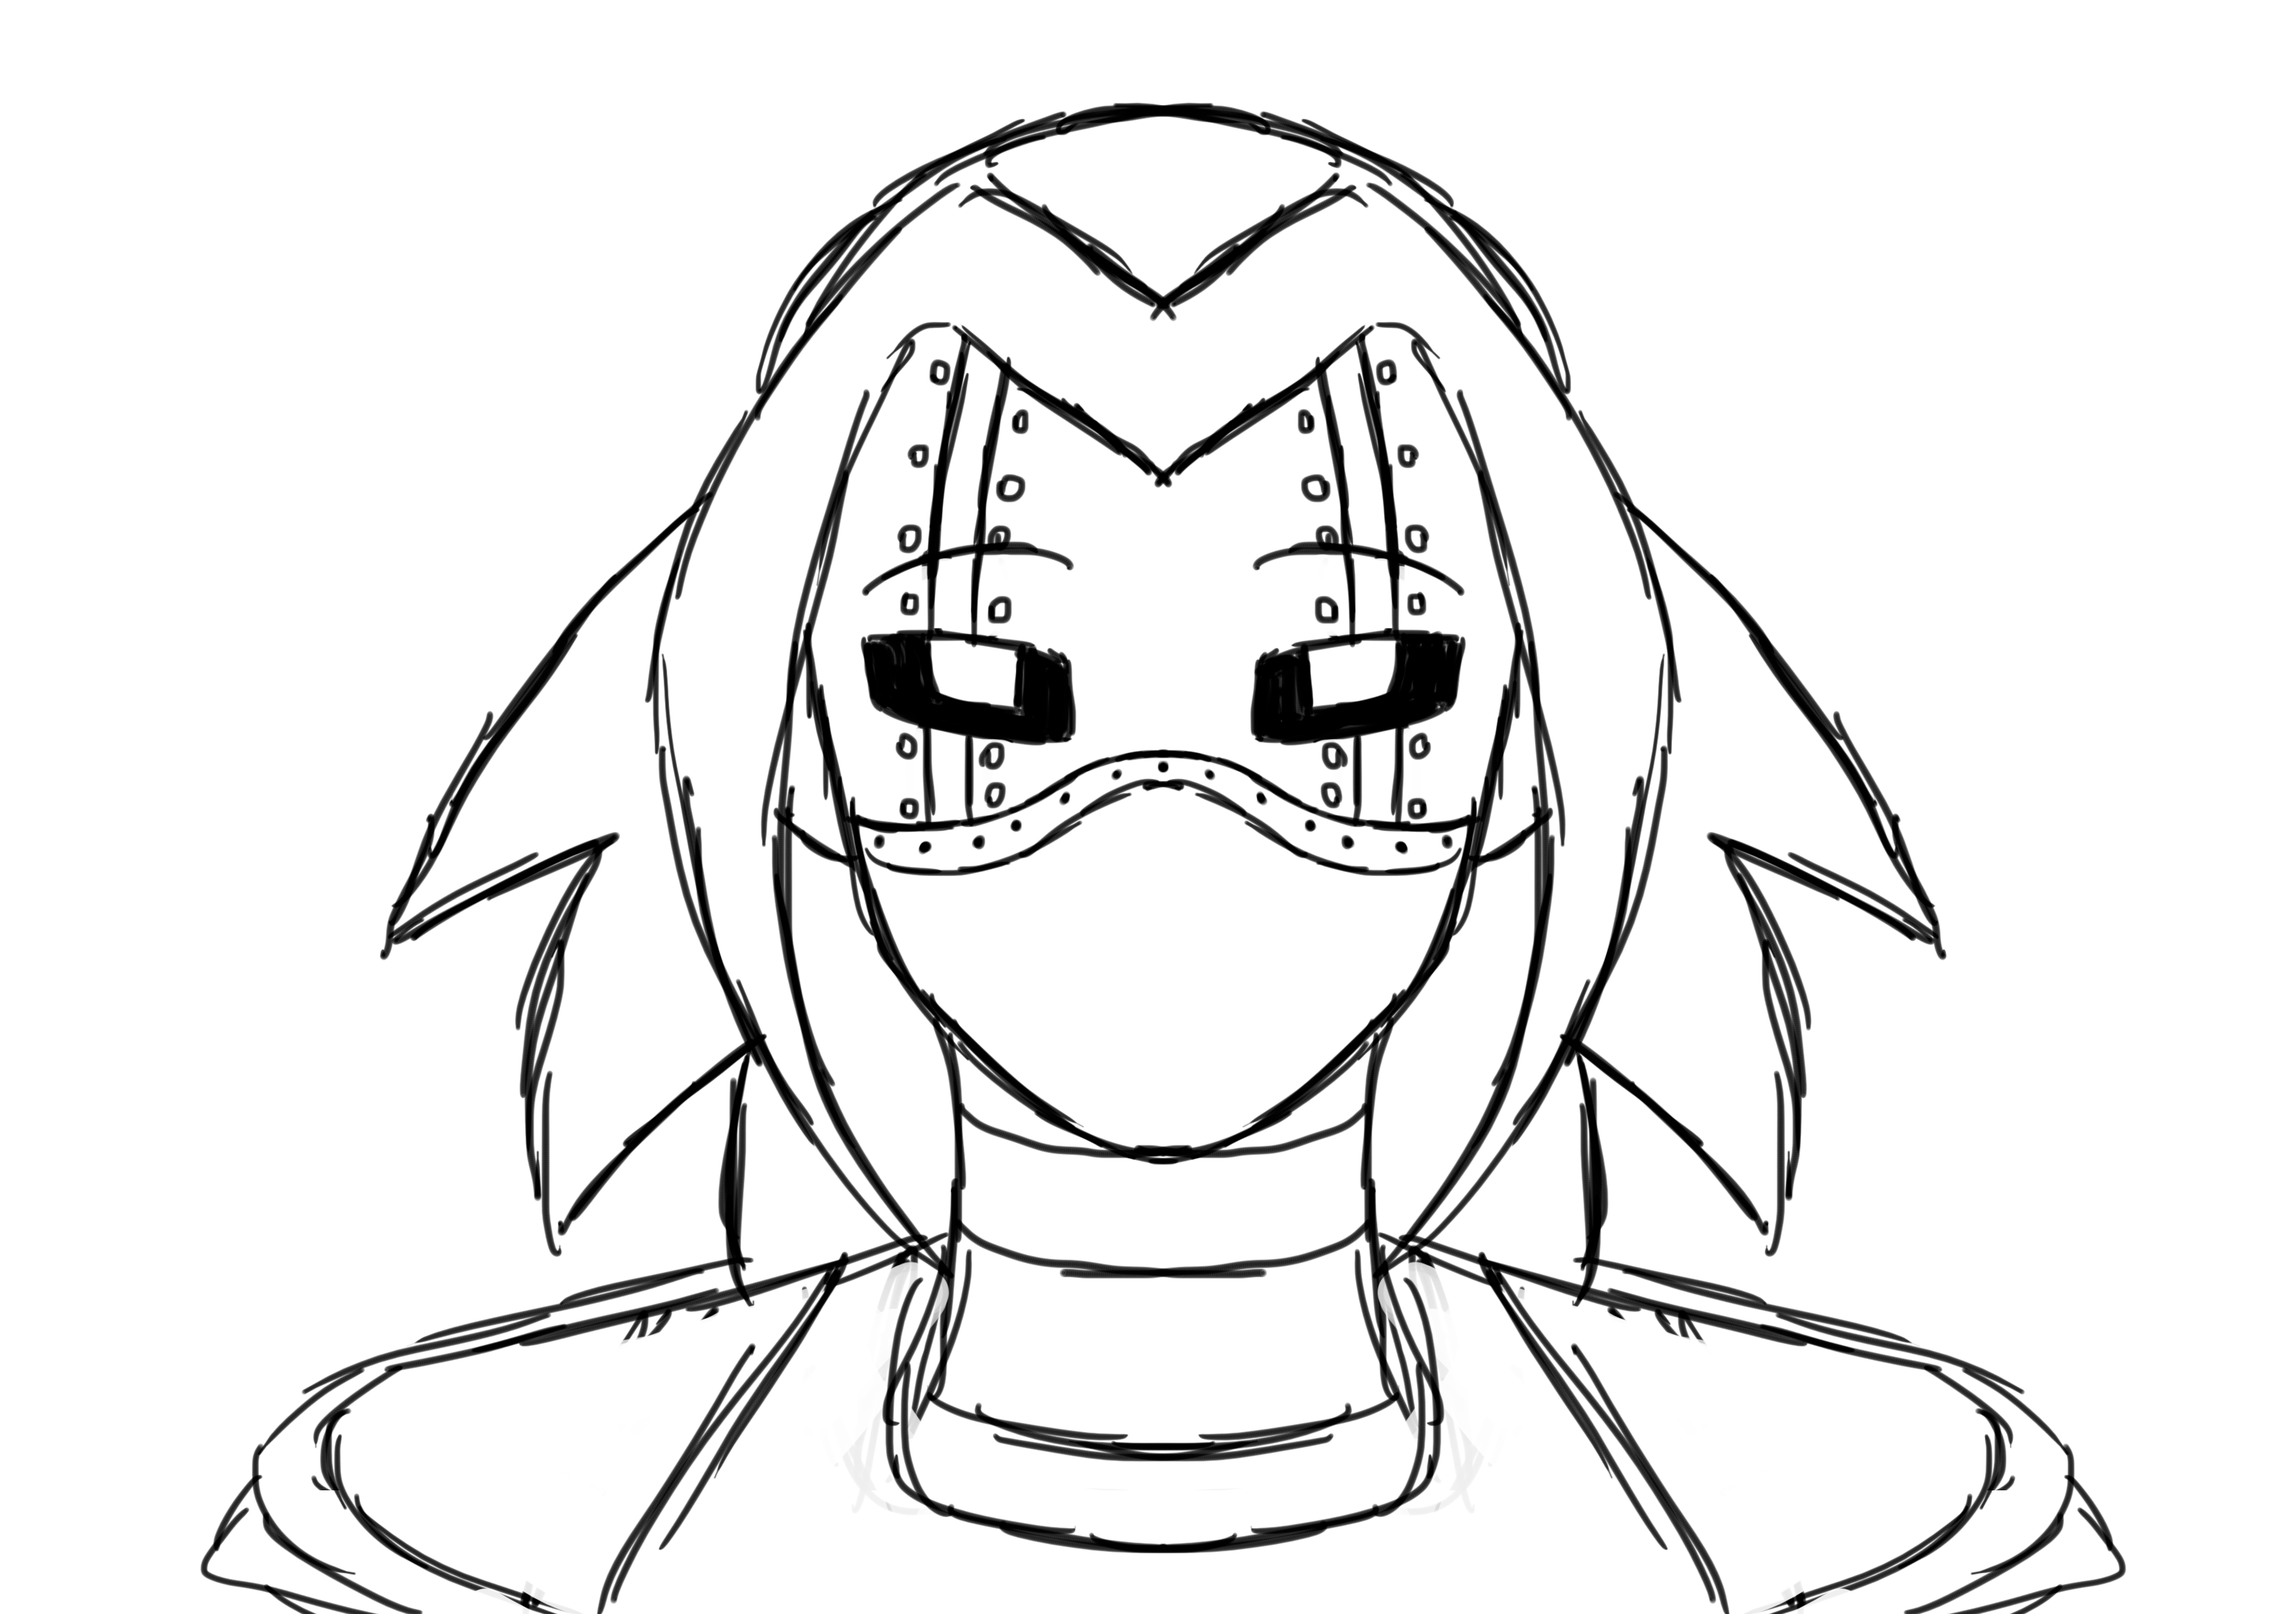
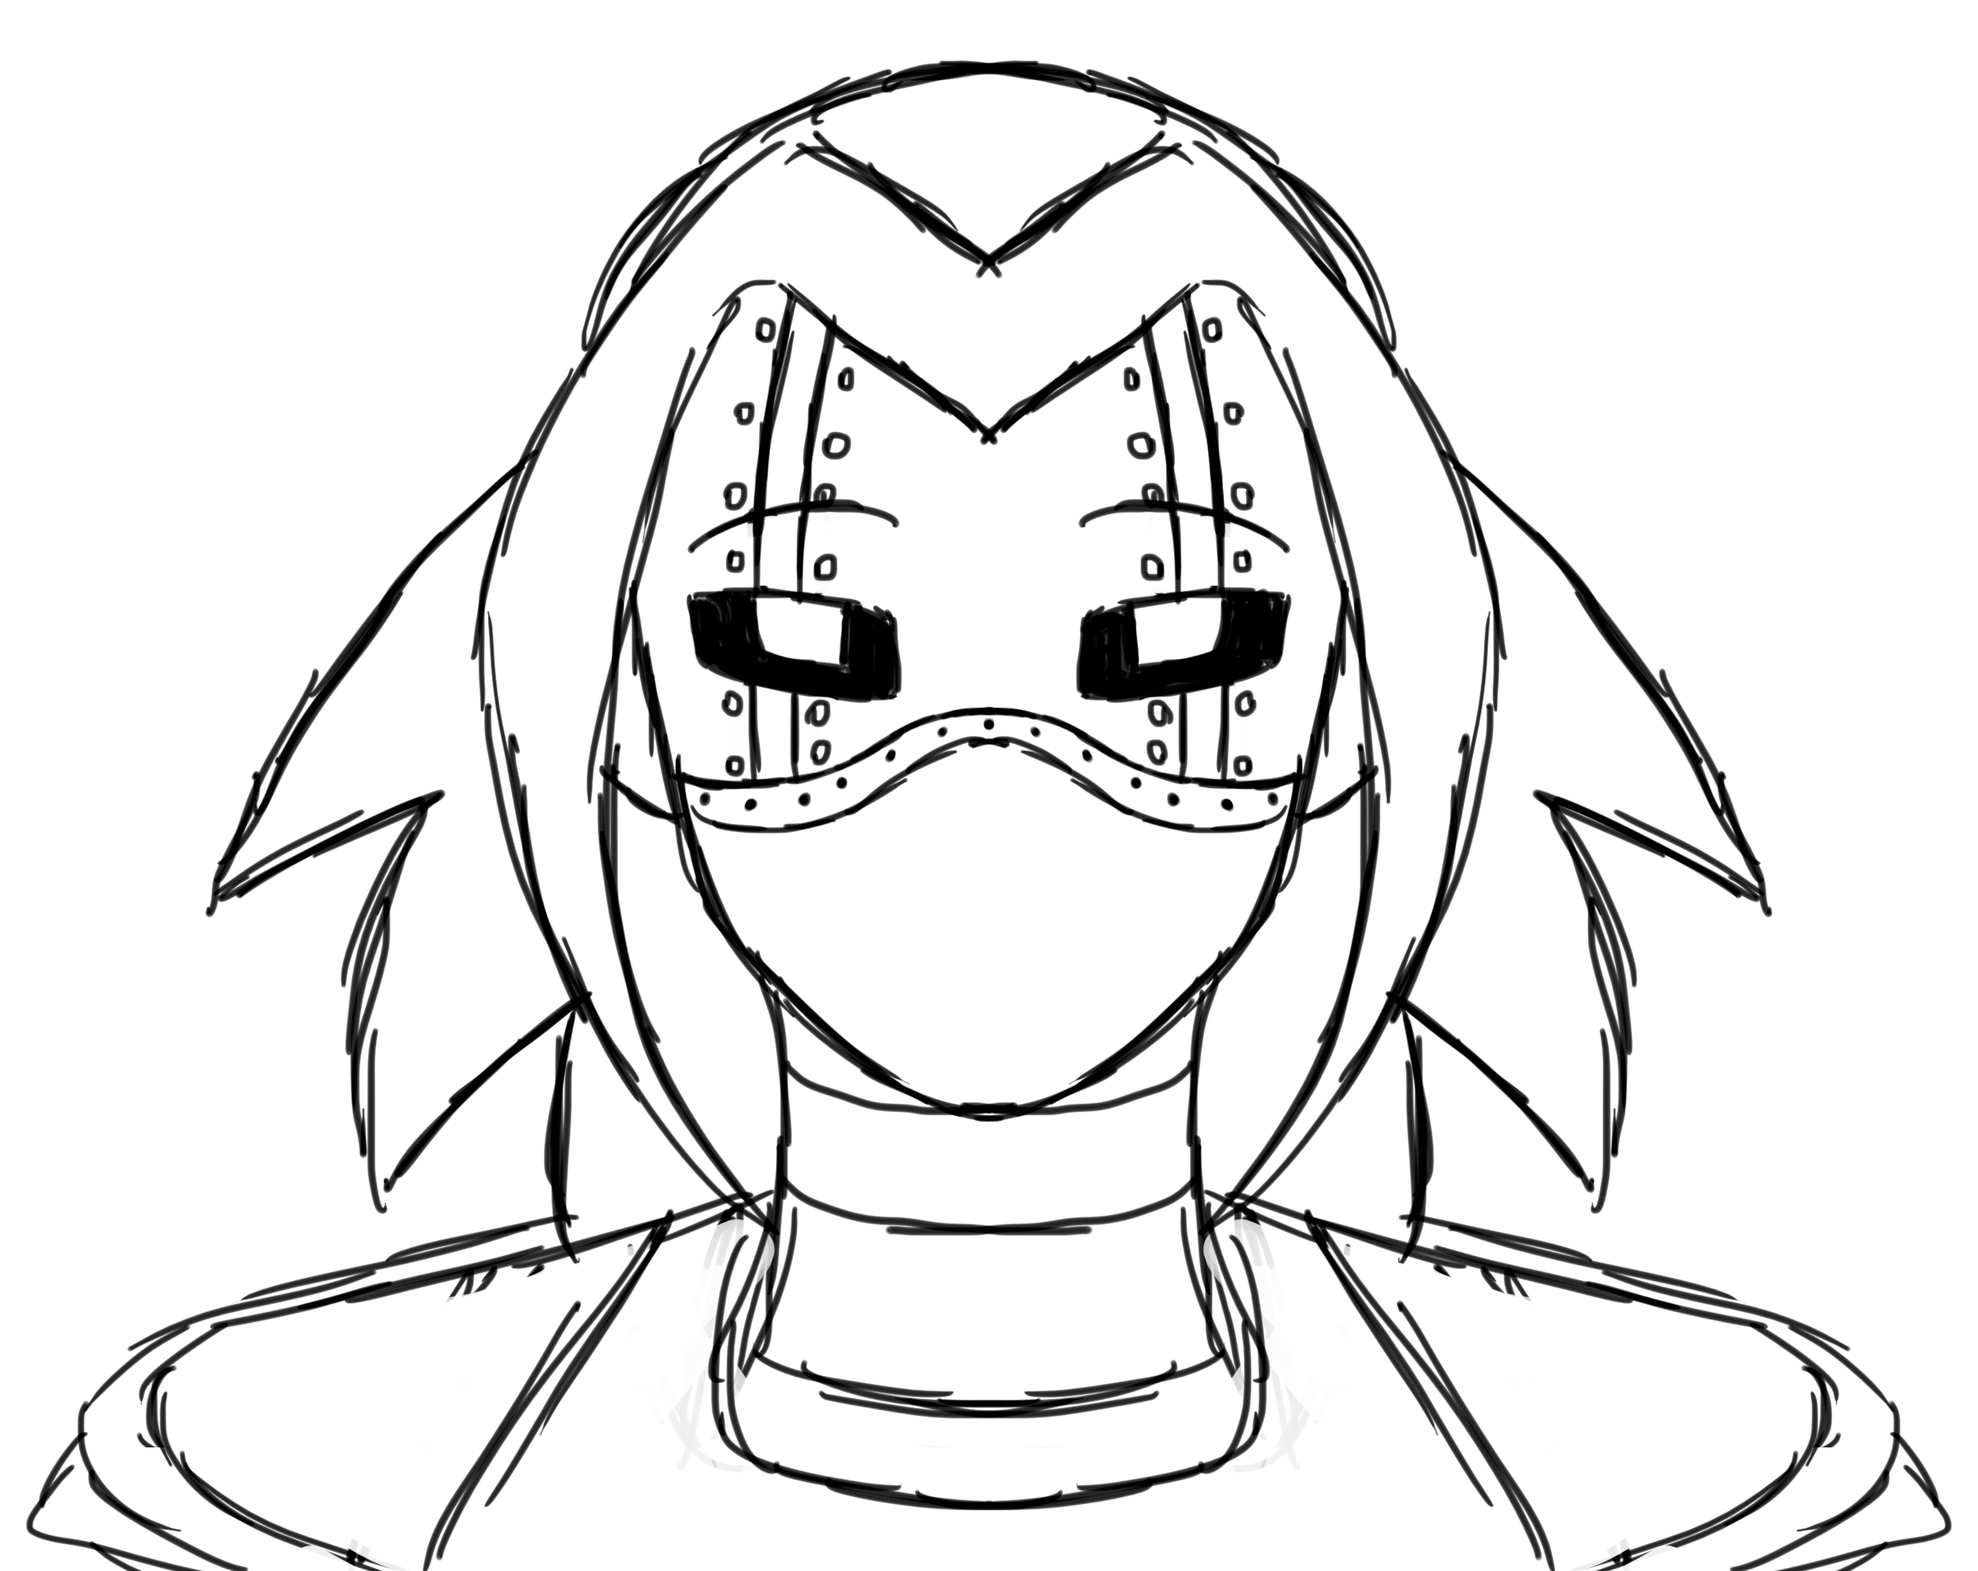
simplificacion de menus y añadi a shadowface
tuve algunas quejas de como funcionaba el menu de movimientos por parte de mis compañeros asi que lo hice mas facil de editar cosa que ellos puedan hacer lo que quieran con el menu mientras los movimientos esten dentro de la base de datos y coloquen 0 para indicar que esta vacio, tambien añadi los fondos hechos por benjamin y a black junto a shadowface, falta hacer su forma escondida pero creo que eso puede esperar

Changed region(s): [[0.0, 0.0311, 0.9898, 1.0]]

diff --git a/Batalla.py b/Batalla.py
@@ -41,11 +41,15 @@ humano1 = pygame.image.load("graficos/Humano1.png")
 
 humano2 = pygame.image.load("graficos/Humano2.png")
 
+humano3 = pygame.image.load("graficos/Humano3.png")
+
 Bot1 = pygame.image.load("graficos/Bot1.png")
 
 Bot2 = pygame.image.load("graficos/Bot2.png")
 
 Bot3 = pygame.image.load("graficos/Bot3.png")
+
+Bot4 = pygame.image.load("graficos/Bot4.png")
 
 Bella = pygame.image.load("graficos/Bella.png")
 
@@ -53,13 +57,19 @@ Angel = pygame.image.load("graficos/Angel.png")
 
 Glitter = pygame.image.load("graficos/Glitter.png")
 
+Black = pygame.image.load("graficos/Black.png")
+
 Miguel = pygame.image.load("graficos/Miguel.png")
 
 Carlos = pygame.image.load("graficos/Carlos.png")
 
+Shadowfave = pygame.image.load("graficos/Shadowface.png")
+
 MontañitasFondo = pygame.image.load("graficos/montañitas.png")
 
-CiudadFondo= pygame.image.load("graficos/ciudad fondo.png")
+PasilloFondo = pygame.image.load("graficos/pasilloFondo.png")
+
+SinLuz = pygame.image.load("graficos/FueraDeServicioFondo.png")
 
 
 
@@ -264,7 +274,7 @@ class boton():
 
 
 
-
+#definir lo que seleccionaremos como iconos
 
 humano_surface = pygame.transform.scale(humano1,(110,110))
 
@@ -275,20 +285,24 @@ bot2_surface = pygame.transform.scale(Bot2,(110,110))
 
 bot3_surface = pygame.transform.scale(Bot3,(110,110))
 
+bot4_surface = pygame.transform.scale(Bot4,(110,110))
 
-fondo1 = pygame.transform.scale(MontañitasFondo,(1280,720))
-
-fondo2 = pygame.transform.scale(CiudadFondo,(1280,720))
-
+bot5_surface = pygame.transform.scale(humano3,(110,110))
 
 
 
-
-pantalla.blit(fondo2,(0,-300))
-
-
+#definir fondo
+fondo1 = pygame.transform.scale(SinLuz,(1280,720))
 
 
+
+#aplicar fondo
+
+pantalla.blit(fondo1,(0,-100))
+
+
+
+#activar los iconos de los personajes que usaremos mas adelante
 
 iconoHumano1 = boton(humano_surface, 85, 625,FOCR,"")
 
@@ -302,14 +316,14 @@ iconoBot2 = boton(bot2_surface, 495, 625,FOCR,"")
 iconoBot3 = boton(bot3_surface, 700, 625,FOCR,"")
 
 
-iconoBot4 = boton(bot1_surface, 905, 625,FOCR,"")
+iconoBot4 = boton(bot4_surface, 905, 625,FOCR,"")
 
 
-iconoBot5 = boton(bot1_surface, 1110, 625,FOCR,"")
+iconoBot5 = boton(bot5_surface, 1110, 625,FOCR,"")
 
 
 
-
+#definir opciones para el menu de humano
 
 accederMenuMovimientosPersonaje1 = boton(None, 225, 450,FOCR,"ATACAR")
 
@@ -364,58 +378,6 @@ def obtenerMovimiento(id):
 
     
 
-
-#definir objetos del inventario
-
-
-    
-
-
-Objeto1 = boton(None, 125, 425, FOCRM, obtenerObjeto(1))
-
-
-Objeto2 = boton(None, 425, 425, FOCRM, obtenerObjeto(3))
-
-
-Objeto3 = boton(None, 725, 425, FOCRM, obtenerObjeto(4))
-
-
-Objeto4 = boton(None, 1025, 425, FOCRM, obtenerObjeto(6))
-
-
-Objeto5 = boton(None, 450, 500, FOCRM, obtenerObjeto(8))
-
-
-Objeto6 = boton(None, 900, 500, FOCRM, obtenerObjeto(9))
-
-
-
-
-
-#definir movimientos
-
-
-
-
-
-movimiento1 = boton(None, 300, 420, FOCRM, obtenerMovimiento(2))
-
-
-movimiento2 = boton(None, 900, 420, FOCRM, obtenerMovimiento(3))
-
-
-movimiento3 = boton(None, 300, 480, FOCRM, obtenerMovimiento(5))
-
-
-movimiento4 = boton(None, 900, 480, FOCRM, obtenerMovimiento(6))
-
-
-movimiento5 = boton(None, 900, 480, FOCRM, obtenerMovimiento(7))
-
-
-
-
-
 #definir flechas de navegacion
 
 
@@ -436,7 +398,24 @@ def inventario():
 
     while True:
 
+        Objeto1 = boton(None, 125, 425, FOCRM, obtenerObjeto(1))
 
+
+        Objeto2 = boton(None, 425, 425, FOCRM, obtenerObjeto(3))
+
+
+        Objeto3 = boton(None, 725, 425, FOCRM, obtenerObjeto(4))    
+
+
+        Objeto4 = boton(None, 1025, 425, FOCRM, obtenerObjeto(6))
+
+
+        Objeto5 = boton(None, 450, 500, FOCRM, obtenerObjeto(8))    
+
+
+        Objeto6 = boton(None, 900, 500, FOCRM, obtenerObjeto(9))
+        
+        
         posicionMouse = pygame.mouse.get_pos()
 
 
@@ -574,7 +553,16 @@ def MenuMovimientos1():
 
     while True:
 
+        movimiento1 = boton(None, 300, 420, FOCRM, obtenerMovimiento(2))
 
+
+        movimiento2 = boton(None, 900, 420, FOCRM, obtenerMovimiento(3))
+
+
+        movimiento3 = boton(None, 300, 480, FOCRM, obtenerMovimiento(5))
+
+
+        movimiento4 = boton(None, 900, 480, FOCRM, obtenerMovimiento(6))
 
 
 
@@ -727,6 +715,19 @@ def MenuMovimientos2():
 
     while True:
 
+        movimiento1 = boton(None, 300, 420, FOCRM, obtenerMovimiento(0))
+
+
+        movimiento2 = boton(None, 900, 420, FOCRM, obtenerMovimiento(0))
+
+
+        movimiento3 = boton(None, 300, 480, FOCRM, obtenerMovimiento(0))
+
+
+        movimiento4 = boton(None, 900, 480, FOCRM, obtenerMovimiento(7))
+
+
+
         posicionMouse = pygame.mouse.get_pos()
 
 
@@ -735,12 +736,28 @@ def MenuMovimientos2():
 
         pygame.draw.rect(pantalla,(azul), (0,360,1280,360), width= 25,border_radius=25)
 
+        movimiento1.cambiarDeColor(posicionMouse)
 
-        movimiento5.cambiarDeColor(posicionMouse)
+
+        movimiento1.update()
 
 
-        movimiento5.update()
+        movimiento2.cambiarDeColor(posicionMouse)
 
+
+        movimiento2.update()
+
+
+        movimiento3.cambiarDeColor(posicionMouse)
+
+
+        movimiento3.update()
+
+
+        movimiento4.cambiarDeColor(posicionMouse)
+
+
+        movimiento4.update()
 
         FlechaI.cambiarDeColor(posicionMouse)
 
@@ -867,17 +884,27 @@ def MenuHumano():
 
         posicionMouse = pygame.mouse.get_pos()
 
-        botOponente = pygame.transform.scale(Angel,(500,450))
-
-        humanoOponente = pygame.transform.scale(Carlos,(150,300))
-
-        pantalla.blit(botOponente,(350,-25))
-
-        pantalla.blit(humanoOponente,(350,100))
 
         pygame.draw.rect(pantalla,(negro), (0,360,1280,360),border_top_left_radius=25,border_top_right_radius=25)
 
+
         pygame.draw.rect(pantalla,(azul), (0,360,1280,360), width= 25,border_radius=25)
+
+
+        #pygame.draw.rect(pantalla,(celestePastel), (400,200,300,300), width= 100,border_radius=100)
+
+
+        botOponente = pygame.transform.scale(Bella,(300,400))
+
+
+        humanoOponente = pygame.transform.scale(Miguel,(300,300))
+
+
+        pantalla.blit(humanoOponente,(550,100))
+
+
+        pantalla.blit(botOponente,(500,0))
+
 
         pygame.draw.rect(pantalla,(negro), (0,360,1280,360),border_top_left_radius=25,border_top_right_radius=25)
 
